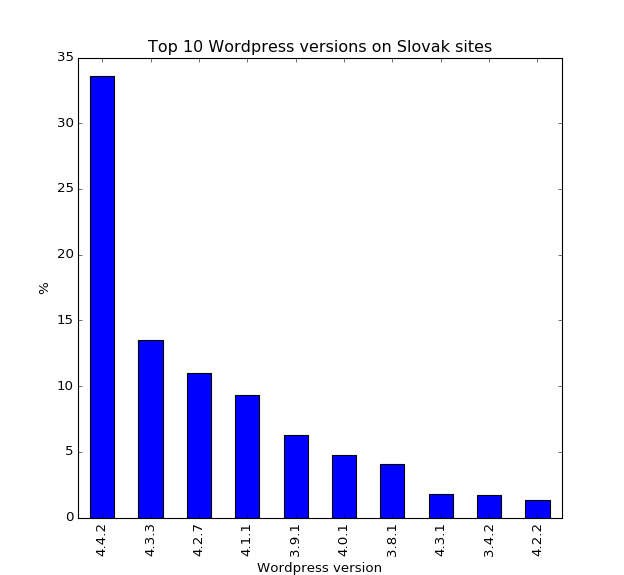
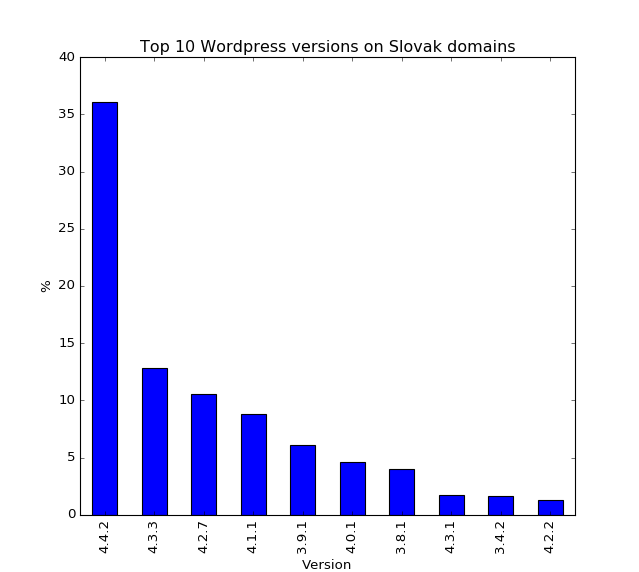
Updated notebook and related content.

Changed region(s): [[0.0609, 0.0594, 0.9135, 0.9808], [0.3958, 0.9808, 0.609, 1.0]]

diff --git a/README.md b/README.md
@@ -1,6 +1,6 @@
-#Wordpress versions used on Slovak domains
+#Wordpress versions used on Slovak domains (01-apr-2016)
 
-Total domains scanned **301 141**. WordPress detected on **48 565 (16%)** domains. WordPress domains updated to latest version **16 873 (34%)**.
+Total domains scanned **301 433**. WordPress detected on **24 355 (8%)** domains. WordPress domains updated to latest version 8788 (36%).
 
 ![WordPress versions chart](wordpress_versions.png)
 
